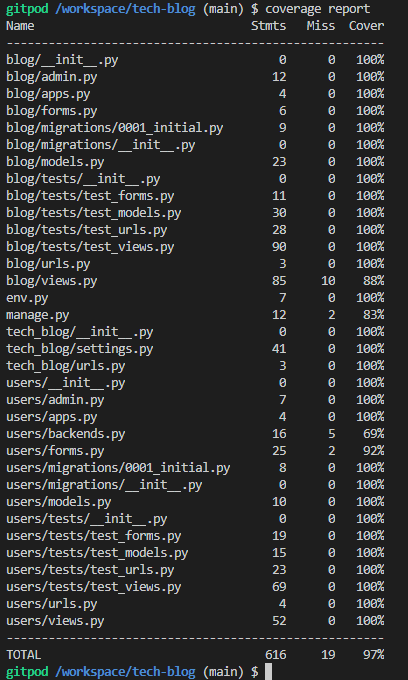
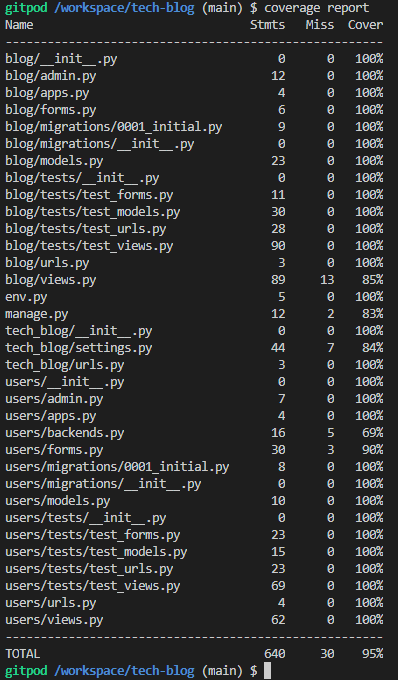
Update bugs & automated testing in README.md

Changed region(s): [[0.0, 0.0, 0.9648, 1.0]]

diff --git a/README.md b/README.md
@@ -1469,7 +1469,7 @@ Using Django TestCase extensive python testing was performed, which helped show 
 
 </details>
 
-As a way of revealing the coverage of the tests, the coverage package was used to measure a 97% coverage result.
+As a way of revealing the coverage of the tests, the coverage package was used to measure a 95% coverage result.
 
 <details>
 
@@ -1493,9 +1493,13 @@ As a way of revealing the coverage of the tests, the coverage package was used t
 
   - **Solution:** A missed else statement in the 'if form.is_valid()' led to the error not being handled. After implementing the else statement, a message will tell the user to not submit the form empty (spaces only).
 
-- After implementing case insensitive usernames to help with UX, users could update to or register with the same username but with different capitalization. For example, if one user named 'john' and another named 'John' registered, then as one of them tried to sign in, the application would crash since the sign in method would return more than one user.
+- After implementing case insensitive usernames to help with UX, users could update to or register with the same username but with different capitalization. For example, if one user named 'john' and another named 'John' registered, then as one of them tried to sign in, the application would crash since it would try to sign in more than one user.
 
   - **Solution:** By adding a method to the UserRegisterForm and UserUpdateForm to check if username existed in any casing the issue was solved. When a user tries to update to or register with an existing username but different capitalization a message will tell the user that it already exists.
+
+- When fixing the bug above, a new issue was found. When a user wanted to only update their email from the profile page, the application would still warn that the username already exists.
+
+  - **Solution:** By checking if the 'request.user.username' is equal to the form username, the issue was solved. Now, if the username has not been changed, it will be valid when handling the form.
 
 ### Known/Unfixed Bugs
 
@@ -1857,6 +1861,8 @@ The live link to this project can be found [here](https://tech-blog-pp4.herokuap
   - When creating a DeleteView in Django, [this](https://stackoverflow.com/questions/24822509/) post helped with displaying a success message.
 
   - Implementing case insensitive usernames was managed with the help of [this](https://stackoverflow.com/questions/70713647/) post.
+
+  - [This](https://stackoverflow.com/questions/1202839/) post showed how to pass request data to a form.
 
 - [This video](https://www.youtube.com/watch?v=e_D_hoJ1kAc) helped with showing active template links in Django.
 
